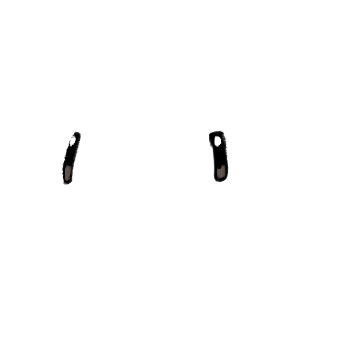
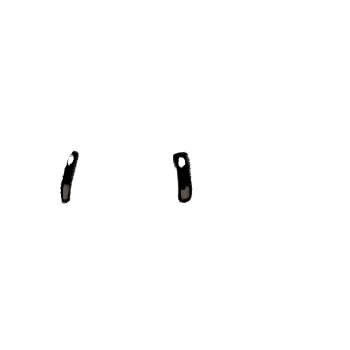
adds missing parts, pagination

Changed region(s): [[0.4857, 0.4286, 0.5714, 0.6], [0.1714, 0.3714, 0.2286, 0.6], [0.6, 0.3714, 0.6571, 0.5143]]

diff --git a/app/components/DragoonPartsPreview/DragoonPartsPreview.tsx b/app/components/DragoonPartsPreview/DragoonPartsPreview.tsx
@@ -1,4 +1,4 @@
-import { FC } from "react";
+import { FC, useState } from "react";
 import DragoonItemPreview from "../DragoonSelector/DragoonSelectorPreview/DragoonSelectorPreview";
 
 type DragoonPartsPreviewProps = {
@@ -8,19 +8,42 @@ type DragoonPartsPreviewProps = {
 
 const DragoonPartsPreview: FC<DragoonPartsPreviewProps> = (props) => {
   const { images, setIndex } = props;
+  const [currentPage, setCurrentPage] = useState(1);
+  const PAGE_SIZE = 10;
+  const maxPages = Math.ceil(images.length / PAGE_SIZE);
+
+  const slice = images.slice(
+    (currentPage - 1) * PAGE_SIZE,
+    PAGE_SIZE * currentPage
+  );
 
   return (
-    <div className="m-2 p-2 border-2 border-black col-span-7 grid grid-cols-5">
-      {images.map((image, idx) => {
-        return (
-          <div
-            className="m-4 border-4 border-black backdrop-blur-[4px]"
-            onClick={() => setIndex(idx)}
-          >
-            <DragoonItemPreview image={image} />
-          </div>
-        );
-      })}
+    <div className="m-2 p-2 border-2 border-black col-span-7 grid grid-cols-11 justify-items-center">
+      <div
+        className="row-span-2 m-auto"
+        onClick={() => setCurrentPage(Math.max(currentPage - 1, 1))}
+      >
+        {"<"}
+      </div>
+      <div className="grid grid-cols-5 grid-rows-2 col-span-9">
+        {slice.map((image, idx) => {
+          return (
+            <div
+              key={image}
+              className="m-4 border-4 border-black backdrop-blur-[4px]"
+              onClick={() => setIndex(idx + (currentPage - 1) * PAGE_SIZE)}
+            >
+              <DragoonItemPreview image={image} />
+            </div>
+          );
+        })}
+      </div>
+      <div
+        className="row-span-2 m-auto"
+        onClick={() => setCurrentPage(Math.min(currentPage + 1, maxPages))}
+      >
+        {">"}
+      </div>
     </div>
   );
 };

diff --git a/app/tailwind.css b/app/tailwind.css
@@ -619,6 +619,22 @@ video {
   grid-column: span 4 / span 4;
 }
 
+.col-span-5 {
+  grid-column: span 5 / span 5;
+}
+
+.col-span-11 {
+  grid-column: span 11 / span 11;
+}
+
+.col-span-9 {
+  grid-column: span 9 / span 9;
+}
+
+.col-span-8 {
+  grid-column: span 8 / span 8;
+}
+
 .row-span-1 {
   grid-row: span 1 / span 1;
 }
@@ -799,6 +815,22 @@ video {
   grid-template-columns: repeat(2, minmax(0, 1fr));
 }
 
+.grid-cols-9 {
+  grid-template-columns: repeat(9, minmax(0, 1fr));
+}
+
+.grid-cols-12 {
+  grid-template-columns: repeat(12, minmax(0, 1fr));
+}
+
+.grid-cols-11 {
+  grid-template-columns: repeat(11, minmax(0, 1fr));
+}
+
+.grid-cols-8 {
+  grid-template-columns: repeat(8, minmax(0, 1fr));
+}
+
 .grid-rows-1 {
   grid-template-rows: repeat(1, minmax(0, 1fr));
 }
@@ -815,8 +847,16 @@ video {
   grid-template-rows: repeat(3, minmax(0, 1fr));
 }
 
+.content-center {
+  align-content: center;
+}
+
 .items-center {
   align-items: center;
+}
+
+.justify-center {
+  justify-content: center;
 }
 
 .justify-items-center {

diff --git a/app/images/dragoonGenerator/eye/index.ts b/app/images/dragoonGenerator/eye/index.ts
@@ -6,5 +6,42 @@ import eye5 from "./05.png";
 import eye7 from "./07.png";
 import eye8 from "./08.png";
 import eye9 from "./09.png";
+import eye10 from "./10.png";
+import eye11 from "./11.png";
+import eye12 from "./12.png";
+import eye13 from "./13.png";
+import eye14 from "./14.png";
+import eye15 from "./15.png";
+import eye16 from "./16.png";
+import eye17 from "./17.png";
+import eye18 from "./18.png";
+import eye19 from "./19.png";
+import eye20 from "./20.png";
+import eye21 from "./21.png";
+import eye23 from "./23.png";
+import eye24 from "./24.png";
 
-export default [eye1, eye2, eye3, eye4, eye5, eye7, eye8, eye9];
+export default [
+  eye1,
+  eye2,
+  eye3,
+  eye4,
+  eye5,
+  eye7,
+  eye8,
+  eye9,
+  eye10,
+  eye11,
+  eye12,
+  eye13,
+  eye14,
+  eye15,
+  eye16,
+  eye17,
+  eye18,
+  eye19,
+  eye20,
+  eye21,
+  eye23,
+  eye24,
+];

diff --git a/app/images/dragoonGenerator/hat/index.ts b/app/images/dragoonGenerator/hat/index.ts
@@ -4,5 +4,40 @@ import hat3 from "./03.png";
 import hat4 from "./04.png";
 import hat5 from "./05.png";
 import hat6 from "./06.png";
+import hat7 from "./07.png";
+import hat8 from "./08.png";
+import hat9 from "./09.png";
+import hat10 from "./10.png";
+import hat11 from "./11.png";
+import hat12 from "./12.png";
+import hat14 from "./14.png";
+import hat15 from "./15.png";
+import hat16 from "./16.png";
+import hat17 from "./17.png";
+import hat19 from "./19.png";
+import hat20 from "./20.png";
+import hat21 from "./21.png";
+import hat22 from "./22.png";
 
-export default [hat1, hat2, hat3, hat4, hat5, hat6];
+export default [
+  hat1,
+  hat2,
+  hat3,
+  hat4,
+  hat5,
+  hat6,
+  hat7,
+  hat8,
+  hat9,
+  hat10,
+  hat11,
+  hat12,
+  hat14,
+  hat15,
+  hat16,
+  hat17,
+  hat19,
+  hat20,
+  hat21,
+  hat22,
+];

diff --git a/app/images/dragoonGenerator/moustache/index.ts b/app/images/dragoonGenerator/moustache/index.ts
@@ -2,5 +2,30 @@ import moustache1 from "./01.png";
 import moustache2 from "./02.png";
 import moustache3 from "./03.png";
 import moustache4 from "./04.png";
+import moustache5 from "./05.png";
+import moustache6 from "./06.png";
+import moustache7 from "./07.png";
+import moustache8 from "./08.png";
+import moustache9 from "./09.png";
+import moustache10 from "./10.png";
+import moustache11 from "./11.png";
+import moustache12 from "./12.png";
+import moustache13 from "./13.png";
+import moustache14 from "./14.png";
 
-export default [moustache1, moustache2, moustache3, moustache4];
+export default [
+  moustache1,
+  moustache2,
+  moustache3,
+  moustache4,
+  moustache5,
+  moustache6,
+  moustache7,
+  moustache8,
+  moustache9,
+  moustache10,
+  moustache11,
+  moustache12,
+  moustache13,
+  moustache14,
+];

diff --git a/app/images/dragoonGenerator/cloth/index.ts b/app/images/dragoonGenerator/cloth/index.ts
@@ -6,5 +6,28 @@ import cloth5 from "./05.png";
 import cloth6 from "./06.png";
 import cloth7 from "./07.png";
 import cloth8 from "./08.png";
+import cloth9 from "./09.png";
+import cloth10 from "./10.png";
+import cloth11 from "./11.png";
+import cloth12 from "./12.png";
+import cloth13 from "./13.png";
+import cloth14 from "./14.png";
+import cloth15 from "./15.png";
 
-export default [cloth1, cloth2, cloth3, cloth4, cloth5, cloth6, cloth7, cloth8];
+export default [
+  cloth1,
+  cloth2,
+  cloth3,
+  cloth4,
+  cloth5,
+  cloth6,
+  cloth7,
+  cloth8,
+  cloth9,
+  cloth10,
+  cloth11,
+  cloth12,
+  cloth13,
+  cloth14,
+  cloth15,
+];

diff --git a/app/components/DragoonGenerator/DragoonGenerator.tsx b/app/components/DragoonGenerator/DragoonGenerator.tsx
@@ -187,9 +187,9 @@ const DragoonGenerator: FC<DragoonGeneratorProps> = (props) => {
           <div onClick={() => setSelected("colour")}>
             <DragoonColourPreview />
           </div>
-          {/* <HuePicker color={currentColor} onChange={handleColorChange} /> */}
           {selected !== "colour" ? (
             <DragoonPartsPreview
+              key={selected}
               images={props[selected]}
               setIndex={partSetterMap[selected]}
             ></DragoonPartsPreview>

diff --git a/app/images/dragoonGenerator/handItem/index.ts b/app/images/dragoonGenerator/handItem/index.ts
@@ -1,5 +1,6 @@
 import handItem1 from "./01.png";
 import handItem2 from "./02.png";
 import handItem3 from "./03.png";
+import handItem4 from "./04.png";
 
-export default [handItem1, handItem2, handItem3];
+export default [handItem1, handItem2, handItem3, handItem4];
